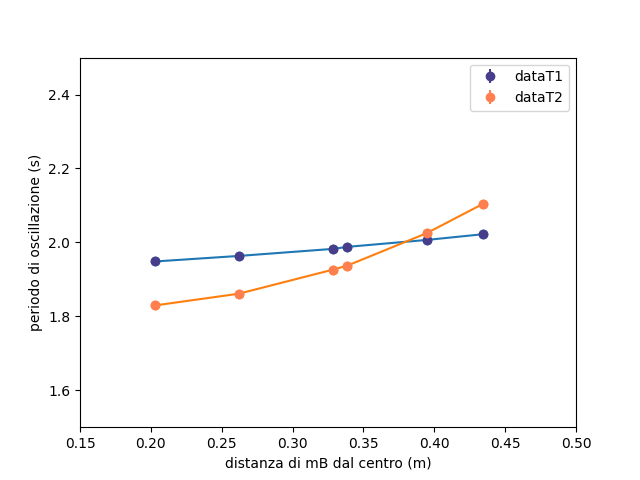
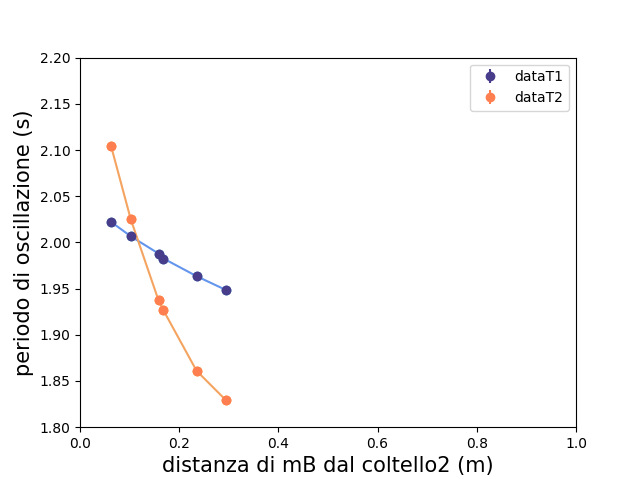
added significative improvement

diff --git a/programma_Kater.py b/programma_Kater.py
@@ -1,37 +1,48 @@
 import numpy as np
 from matplotlib import pyplot as plt
 import dati
+from sympy import *
 from strumenti_utili_v2 import *
 
 
 #risultati della raccolta dati
 dist_mB = np.array([
-    np.mean(dati.d3),
-    np.mean(dati.d2),
     np.mean(dati.d1),
+    np.mean(dati.d2),
+    np.mean(dati.d3),
     np.mean(dati.d4),
     np.mean(dati.d5),
     np.mean(dati.d6)
 ])
-print("in media, le distanze da mB al centro sono: {}".format(dist_mB))
+print("in media, le distanze da mB dal coltello 2 sono: {}".format(dist_mB))
+
+s_dist_mB = np.array([
+    deviazione(dati.d1, np.mean(dati.d1)),
+    deviazione(dati.d2, np.mean(dati.d2)),
+    deviazione(dati.d3, np.mean(dati.d3)),
+    deviazione(dati.d4, np.mean(dati.d4)),
+    deviazione(dati.d5, np.mean(dati.d5)),
+    deviazione(dati.d6, np.mean(dati.d6))
+])/np.sqrt(dati.T11.size)
+print("incertezze dist mB {}".format(s_dist_mB))
+
 
 dist_mA = np.mean(dati.dist_mA)
-
+print(dist_mA)
 T1 = np.array([
-    np.mean(dati.T13),
-    np.mean(dati.T12),
     np.mean(dati.T11),
+    np.mean(dati.T12),
+    np.mean(dati.T13),
     np.mean(dati.T14),
     np.mean(dati.T15),
     np.mean(dati.T16)
 ])
 print("le medie dei periodi relativi al primo coltello: {}".format(T1))
 
-
 T2 = np.array([
-    np.mean(dati.T23),
-    np.mean(dati.T22),
     np.mean(dati.T21),
+    np.mean(dati.T22),
+    np.mean(dati.T23),
     np.mean(dati.T24),
     np.mean(dati.T25),
     np.mean(dati.T26)
@@ -39,22 +50,24 @@ T2 = np.array([
 print("le medie dei periodi relativi al secondo coltello: {}".format(T2))
 
 s_T1 = np.array([
-    deviazione(dati.T13, np.mean(dati.T13)),
-    deviazione(dati.T12, np.mean(dati.T12)),
     deviazione(dati.T11, np.mean(dati.T11)),
+    deviazione(dati.T12, np.mean(dati.T12)),
+    deviazione(dati.T13, np.mean(dati.T13)),
     deviazione(dati.T14, np.mean(dati.T14)),
     deviazione(dati.T15, np.mean(dati.T15)),
     deviazione(dati.T16, np.mean(dati.T16))
 ])/np.sqrt(dati.T11.size)
+print("incertezze T1 {}".format(s_T1))
 
 s_T2 = np.array([
-    deviazione(dati.T23, np.mean(dati.T23)),
-    deviazione(dati.T22, np.mean(dati.T22)),
     deviazione(dati.T21, np.mean(dati.T21)),
+    deviazione(dati.T22, np.mean(dati.T22)),
+    deviazione(dati.T23, np.mean(dati.T23)),
     deviazione(dati.T24, np.mean(dati.T24)),
     deviazione(dati.T25, np.mean(dati.T25)),
     deviazione(dati.T26, np.mean(dati.T26))
 ])/np.sqrt(dati.T21.size)
+print("incertezze T2{}".format(s_T2))
 
 #grafico dei punti
 plt.errorbar(dist_mB, T1, s_T1, fmt='o', ls='none', label='dataT1', color= "DarkSlateBlue") #parametri: array_x, array_y, errore_y, errore_x 
@@ -66,14 +79,106 @@ plt.plot(dist_mB, T1, color= "CornflowerBlue")
 plt.scatter(dist_mB, T2)
 plt.plot(dist_mB, T2, color= "SandyBrown")
 
-plt.xlim(0.15, 0.5)
-plt.ylim(1.7, 2.2)
+plt.xlim(0.0, 1.0)
+plt.ylim(1.8, 2.2)
 
 
-plt.xlabel('distanza di mB dal centro (m)')
-plt.ylabel('periodo di oscillazione (s)') 
+plt.xlabel('distanza di mB dal coltello2 (m)', fontsize=15)
+plt.ylabel('periodo di oscillazione (s)', fontsize=15) 
 
 plt.legend() # aggiungo una legenda
 #plt.savefig('computed_data/retta.pgf')
 plt.savefig('computed_data/punti.png')
 plt.show()
+
+#calcolo g e sigma g
+T = ( (T2[3]*T1[4]) - (T1[3]*T2[4]) )/(T1[4]-T2[4]-T1[3]+T2[3])
+g = 4*np.power(np.pi, 2)*0.994/np.power(T, 2)
+
+_T23, _T24, _T13, _T14 = symbols('_T23 _T24 _T13 _T14', real=True) #raggio sferette
+formula_funzione = ( (_T23*_T14) - (_T13*_T24) )/( _T14 - _T24 - _T13 + _T23 )
+
+#genera uno scalare a partire dalla formula simbolica scritta sopra
+def genera_derivata(incognita):
+    formula_derivata = diff(formula_funzione, incognita)
+    derivata = formula_derivata.subs([(_T23, T2[3]), (_T24, T2[4]), (_T13, T1[3]), (_T14, T1[4])])
+    return derivata
+
+derivata_T23 = genera_derivata(_T23)
+derivata_T24 = genera_derivata(_T24)
+derivata_T13 = genera_derivata(_T13)
+derivata_T14 = genera_derivata(_T14)
+
+#sigma_T = np.sqrt(s_T2[3]**2 + s_T2[4]**2 + s_T1[3]**2 + s_T1[4]**2)
+sigma_T = np.power(derivata_T23*s_T2[3], 2)+ np.power(derivata_T24*s_T2[4], 2) + np.power(derivata_T13*s_T1[3], 2) + np.power(derivata_T14*s_T1[4], 2)
+sigma_T = np.array(sigma_T, dtype=np.float64) 
+sigma_T = np.sqrt(sigma_T)
+print(sigma_T)
+
+
+_T= symbols('_T', real=True) #raggio sferette
+formula_funzione2 = 4*np.power(np.pi, 2)*0.994/np.power(_T, 2)
+
+#genera uno scalare a partire dalla formula simbolica scritta sopra
+def genera_derivata(incognita):
+    formula_derivata = diff(formula_funzione2, incognita)
+    print(formula_derivata)
+    derivata = formula_derivata.subs([(_T, T)])
+    return derivata
+
+derivata_T = genera_derivata(_T)
+sigma_g = derivata_T*sigma_T
+
+print("accelerazione di gravita: {}±{}".format(g, sigma_g))
+
+#approssimazione angolo infinitesimo
+_T, _teta= symbols('_T _teta', real=True) #raggio sferette
+formula_funzione2 = 4*np.power(np.pi, 2)*0.994*np.power(1+(_teta**2/16), 2)/np.power(_T, 2)
+
+#genera uno scalare a partire dalla formula simbolica scritta sopra
+teta = np.arcsin(dati.b/dati.a)
+sigma_teta = 0.0008 #rad
+print(teta)
+def genera_derivata(incognita):
+    formula_derivata = diff(formula_funzione2, incognita)
+    print(formula_derivata)
+    derivata = formula_derivata.subs([(_T, T), (_teta, teta)])
+    return derivata
+
+derivata_T = genera_derivata(_T)
+derivata_teta = genera_derivata(_teta)
+
+sigma_g = np.power(derivata_T*sigma_T, 2)+np.power(derivata_teta*sigma_teta, 2)
+sigma_g = np.array(sigma_g, dtype=np.float64) 
+sigma_g_casuale = np.sqrt(sigma_g)
+print(sigma_g_casuale)
+
+g_nuova = 4*np.power(np.pi, 2)*0.994*((1+(np.power(teta, 2)/16))**2) / (T**2)
+g_precisissima = 4*np.power(np.pi, 2)*0.994*((1+(np.power(teta, 2)/16)+(9*np.power(teta, 4)/1024)+(25*np.power(teta, 6)/16384))**2) / (T**2)
+Errore_sist = g_precisissima-g_nuova #su g nuova
+print("l'errore sistematico sulla g nuova è: {}".format(Errore_sist))
+
+sigma_g_tot = sigma_g_casuale**2 + Errore_sist**2
+sigma_g_tot= np.sqrt(sigma_g_tot)
+print("accelerazione di gravita NUOVA: {}±{}".format(g_nuova, sigma_g_tot))
+
+#=======================    generazione tabelle   =======================
+
+#tabelle distanze
+crea_tabella(dati.d6, 6, "computed_data/tableDistances.tex")
+
+#tabelle periodo 1
+crea_tabella(dati.T11, 11, "computed_data/tablePeriod11.tex")
+crea_tabella(dati.T12, 11, "computed_data/tablePeriod12.tex")
+crea_tabella(dati.T13, 11, "computed_data/tablePeriod13.tex")
+crea_tabella(dati.T14, 11, "computed_data/tablePeriod14.tex")
+crea_tabella(dati.T15, 11, "computed_data/tablePeriod15.tex")
+crea_tabella(dati.T16, 11, "computed_data/tablePeriod16.tex")
+
+#tabelle periodo 2
+crea_tabella(dati.T21, 11, "computed_data/tablePeriod21.tex")
+crea_tabella(dati.T22, 11, "computed_data/tablePeriod22.tex")
+crea_tabella(dati.T23, 11, "computed_data/tablePeriod23.tex")
+crea_tabella(dati.T24, 11, "computed_data/tablePeriod24.tex")
+crea_tabella(dati.T25, 11, "computed_data/tablePeriod25.tex")
+crea_tabella(dati.T26, 11, "computed_data/tablePeriod26.tex")

diff --git a/dati.py b/dati.py
@@ -1,32 +1,35 @@
 import numpy as np
 
-d1 = np.array([32.9, 32.8, 32.9, 32.9, 32.9])/100 #in metri
-d2 = np.array([26.2, 26.2, 26.2 ,26.1 ,26.3 ])/100
-d3 = np.array([20.3, 20.3, 20.4 ,20.3, 20.2])/100
-d4 = np.array([33.9, 33.8, 33.9, 33.9, 33.8])/100
-d5 = np.array([39.5, 39.4, 39.5, 39.5, 39.4])/100
-d6 = np.array([43.4, 43.5, 43.3, 43.5, 43.4])/100
+d1 = (99.4/2-np.array([20.3, 20.3, 20.4 ,20.3, 20.2]))/100 #in metri
+d2 = (99.4/2-np.array([26.2, 26.2, 26.2 ,26.1 ,26.3]))/100
+d3 = (99.4/2-np.array([32.9, 32.8, 32.9, 32.9, 32.9]))/100
+d4 = (99.4/2-np.array([33.9, 33.8, 33.9, 33.9, 33.8]))/100
+d5 = (99.4/2-np.array([39.5, 39.4, 39.5, 39.5, 39.4]))/100
+d6 = (99.4/2-np.array([43.4, 43.5, 43.3, 43.5, 43.4]))/100
+print(d1, d2, d3, d4, d5, d6)
 
 #coltello1
-T11 = np.array([1.9827, 1.9824, 1.9822, 1.9826, 1.9822, 1.9828, 1.9825, 1.9826, 1.9828, 1.9825]) #in secondi
-T12 = np.array([1.9637, 1.9638, 1.9636, 1.9636, 1.9635, 1.9633, 1.9632, 1.9630 , 1.9626, 1.9634])
-T13 = np.array([1.9485, 1.9483, 1.9488, 1.9489, 1.9483, 1.9484, 1.9487, 1.9487, 1.9473, 1.9482])
+T11 = np.array([1.9485, 1.9483, 1.9488, 1.9489, 1.9483, 1.9484, 1.9487, 1.9487, 1.9482]) #in secondi
+T12 = np.array([1.9637, 1.9638, 1.9636, 1.9636, 1.9635, 1.9633, 1.9632, 1.9630, 1.9634])
+T13 = np.array([1.9827, 1.9824, 1.9826, 1.9822, 1.9828, 1.9825, 1.9826, 1.9828, 1.9825])
 T14 = np.array([1.9884, 1.9887, 1.9879, 1.9877, 1.9877, 1.9876, 1.9876, 1.9876, 1.9880])
 T15 = np.array([2.0075, 2.0074, 2.0071, 2.0061, 2.0065, 2.0063, 2.0065, 2.0061, 2.0061])
 T16 = np.array([2.0227, 2.0222, 2.0221, 2.0228, 2.0221, 2.0217, 2.0218, 2.0217, 2.0217])
 
 #coltello2
-T21 = np.array([1.9264, 1.9274, 1.9264, 1.9263, 1.9270, 1.9278, 1.9258, 1.9258, 1.9257, 1.9271, 1.9270]) #in secondi
-T22 = np.array([1.8614, 1.8612, 1.8610, 1.8612, 1.8608, 1.8606, 1.8608, 1.8611, 1.8617, 1.8612, 1.8612])
-T23 = np.array([1.8318, 1.8306, 1.8300, 1.8295, 1.8286, 1.8292, 1.8298, 1.8288, 1.8287, 1.8290, 1.8289])
+T21 = np.array([1.8306, 1.8300, 1.8295, 1.8286, 1.8292, 1.8298, 1.8288, 1.8287, 1.8290, 1.8289]) #in secondi
+T22 = np.array([1.8614, 1.8612, 1.8610, 1.8612, 1.8608, 1.8606, 1.8608, 1.8611, 1.8612, 1.8612])
+T23 = np.array([1.9264, 1.9274, 1.9264, 1.9263, 1.9270, 1.9258, 1.9258, 1.9257, 1.9271, 1.9270])
 T24 = np.array([1.9378, 1.9381, 1.9369, 1.9379, 1.9366, 1.9386, 1.9374, 1.9357, 1.9357, 1.9367])
 T25 = np.array([2.0279, 2.0265, 2.0271, 2.0256, 2.0244, 2.0251, 2.0241, 2.0232, 2.0226, 2.0226])
 T26 = np.array([2.1072, 2.1046, 2.1035, 2.1046, 2.1032, 2.1034, 2.1043, 2.1025, 2.1039, 2.1024])
 
 
-dist_mA = np.array([65.6, 65.7, 65.6, 65.6, 65.7])/100 #in metri
+dist_mA = (np.array([65.6, 65.7, 65.6, 65.6, 65.7])-99.4/2)/100 #in metri
+print(dist_mA)
 L = [1.670, 1.668, 1.669, 1.669, 1.668] #in metri
 m_A = 1.000 #in kg
 m_B = 1.400 #in kg
-b = 11.5 #in cm
-a = 133.7 #in cm
+
+b = 11.5/100 #in m
+a = 133.7/100 #in m

diff --git a/computed_data/tableDistances.tex b/computed_data/tableDistances.tex
@@ -1,0 +1,9 @@
+
+        \begin{tabular}{*{6}{c}}
+            \hline
+            \hline
+                0.06300000000000004 & 0.06200000000000003 & 0.06400000000000006 & 0.06200000000000003 & 0.06300000000000004 & \\
+            \hline
+            \hline
+        \end{tabular}
+        

diff --git a/computed_data/tablePeriod24.tex b/computed_data/tablePeriod24.tex
@@ -1,0 +1,9 @@
+
+        \begin{tabular}{*{11}{c}}
+            \hline
+            \hline
+                1.9378 & 1.9381 & 1.9369 & 1.9379 & 1.9366 & 1.9386 & 1.9374 & 1.9357 & 1.9357 & 1.9367 & \\
+            \hline
+            \hline
+        \end{tabular}
+        

diff --git a/computed_data/tablePeriod25.tex b/computed_data/tablePeriod25.tex
@@ -1,0 +1,9 @@
+
+        \begin{tabular}{*{11}{c}}
+            \hline
+            \hline
+                2.0279 & 2.0265 & 2.0271 & 2.0256 & 2.0244 & 2.0251 & 2.0241 & 2.0232 & 2.0226 & 2.0226 & \\
+            \hline
+            \hline
+        \end{tabular}
+        

diff --git a/computed_data/tablePeriod26.tex b/computed_data/tablePeriod26.tex
@@ -1,0 +1,9 @@
+
+        \begin{tabular}{*{11}{c}}
+            \hline
+            \hline
+                2.1072 & 2.1046 & 2.1035 & 2.1046 & 2.1032 & 2.1034 & 2.1043 & 2.1025 & 2.1039 & 2.1024 & \\
+            \hline
+            \hline
+        \end{tabular}
+        

diff --git a/computed_data/tablePeriod22.tex b/computed_data/tablePeriod22.tex
@@ -1,0 +1,9 @@
+
+        \begin{tabular}{*{11}{c}}
+            \hline
+            \hline
+                1.8614 & 1.8612 & 1.861 & 1.8612 & 1.8608 & 1.8606 & 1.8608 & 1.8611 & 1.8612 & 1.8612 & \\
+            \hline
+            \hline
+        \end{tabular}
+        

diff --git a/computed_data/tablePeriod23.tex b/computed_data/tablePeriod23.tex
@@ -1,0 +1,9 @@
+
+        \begin{tabular}{*{11}{c}}
+            \hline
+            \hline
+                1.9264 & 1.9274 & 1.9264 & 1.9263 & 1.927 & 1.9258 & 1.9258 & 1.9257 & 1.9271 & 1.927 & \\
+            \hline
+            \hline
+        \end{tabular}
+        

diff --git a/computed_data/tablePeriod21.tex b/computed_data/tablePeriod21.tex
@@ -1,0 +1,9 @@
+
+        \begin{tabular}{*{11}{c}}
+            \hline
+            \hline
+                1.8306 & 1.83 & 1.8295 & 1.8286 & 1.8292 & 1.8298 & 1.8288 & 1.8287 & 1.829 & 1.8289 & \\
+            \hline
+            \hline
+        \end{tabular}
+        

diff --git a/computed_data/tablePeriod11.tex b/computed_data/tablePeriod11.tex
@@ -1,0 +1,9 @@
+
+        \begin{tabular}{*{11}{c}}
+            \hline
+            \hline
+                1.9485 & 1.9483 & 1.9488 & 1.9489 & 1.9483 & 1.9484 & 1.9487 & 1.9487 & 1.9482 & \\
+            \hline
+            \hline
+        \end{tabular}
+        

diff --git a/computed_data/tablePeriod13.tex b/computed_data/tablePeriod13.tex
@@ -1,0 +1,9 @@
+
+        \begin{tabular}{*{11}{c}}
+            \hline
+            \hline
+                1.9827 & 1.9824 & 1.9826 & 1.9822 & 1.9828 & 1.9825 & 1.9826 & 1.9828 & 1.9825 & \\
+            \hline
+            \hline
+        \end{tabular}
+        

diff --git a/computed_data/tablePeriod15.tex b/computed_data/tablePeriod15.tex
@@ -1,0 +1,9 @@
+
+        \begin{tabular}{*{11}{c}}
+            \hline
+            \hline
+                2.0075 & 2.0074 & 2.0071 & 2.0061 & 2.0065 & 2.0063 & 2.0065 & 2.0061 & 2.0061 & \\
+            \hline
+            \hline
+        \end{tabular}
+        
